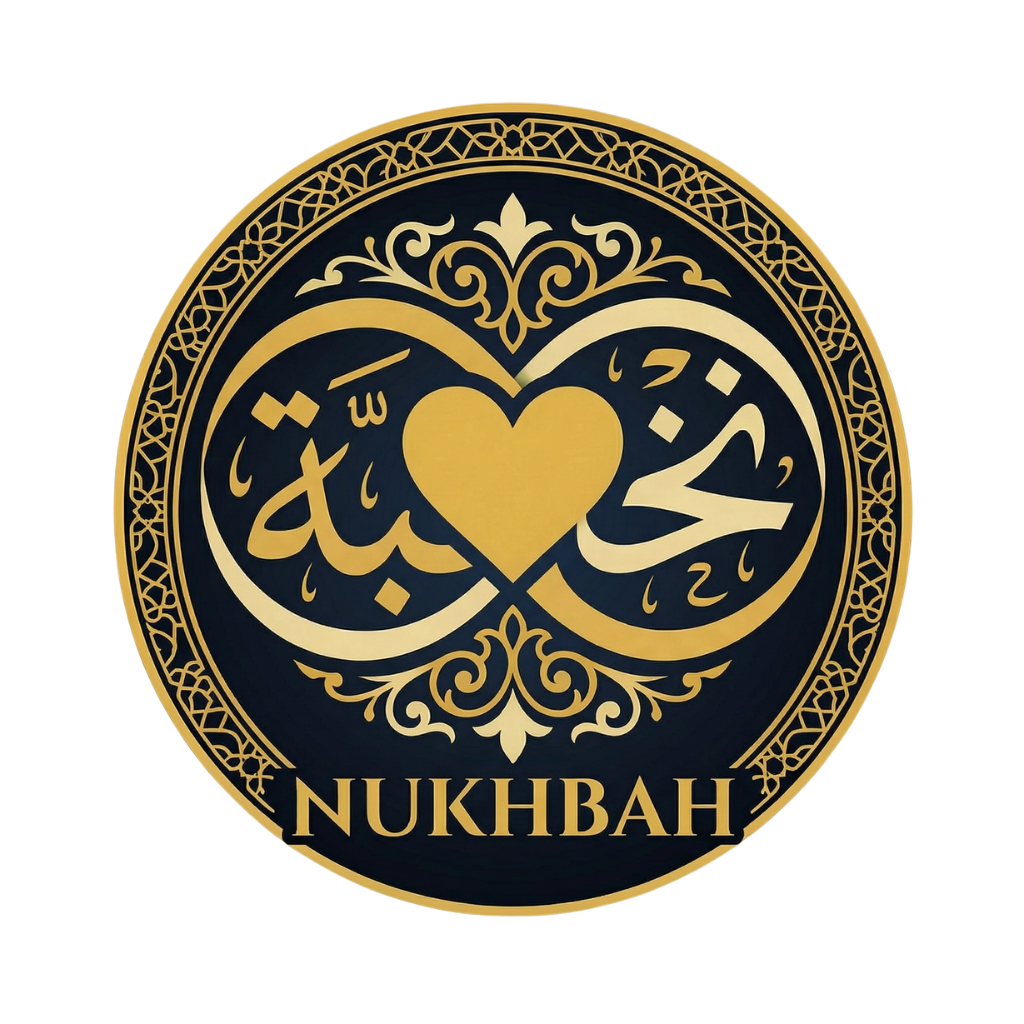
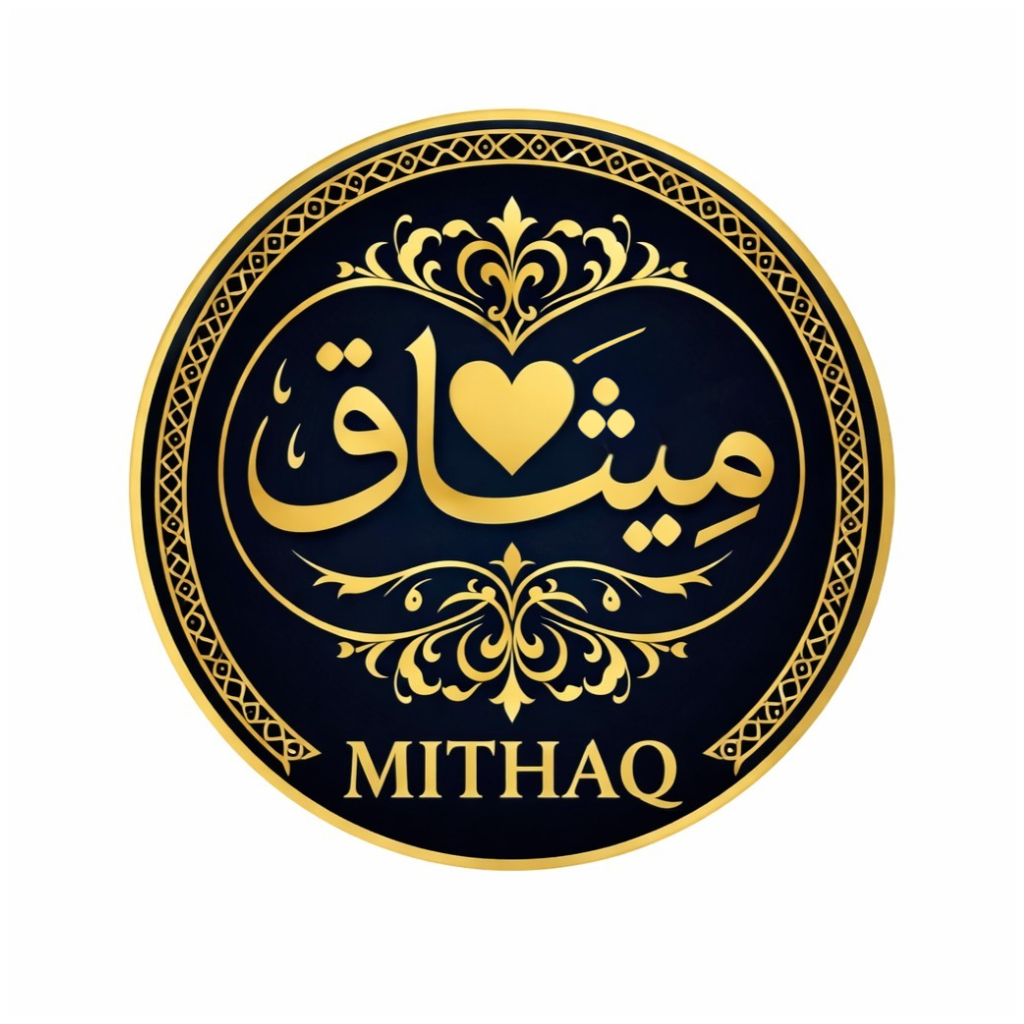
change name

diff --git a/app.config.ts b/app.config.ts
@@ -3,6 +3,7 @@ export default {
   expo: {
     name: "Mithaq",
     slug: "mithaq",
+    owner: "adam-afzal",
     scheme: "mithaq",
     version: "1.0.0",
     icon: "./assets/icon.png",
@@ -19,7 +20,7 @@ export default {
     ],
     extra: {
       eas: {
-        projectId: "765952ec-82b2-40a7-84fb-8a01b2388714"
+        projectId: "12cd5d60-25de-41a7-a14d-2f15e1243c86"
       },
       EXPO_PUBLIC_SUPABASE_URL: process.env.EXPO_PUBLIC_SUPABASE_URL,
       EXPO_PUBLIC_SUPABASE_KEY: process.env.EXPO_PUBLIC_SUPABASE_KEY,
